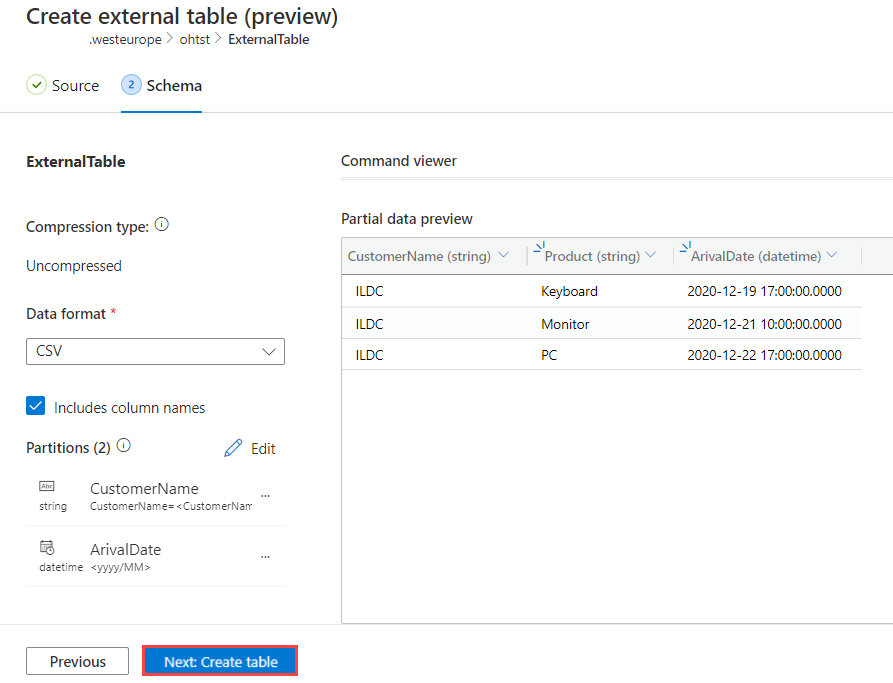
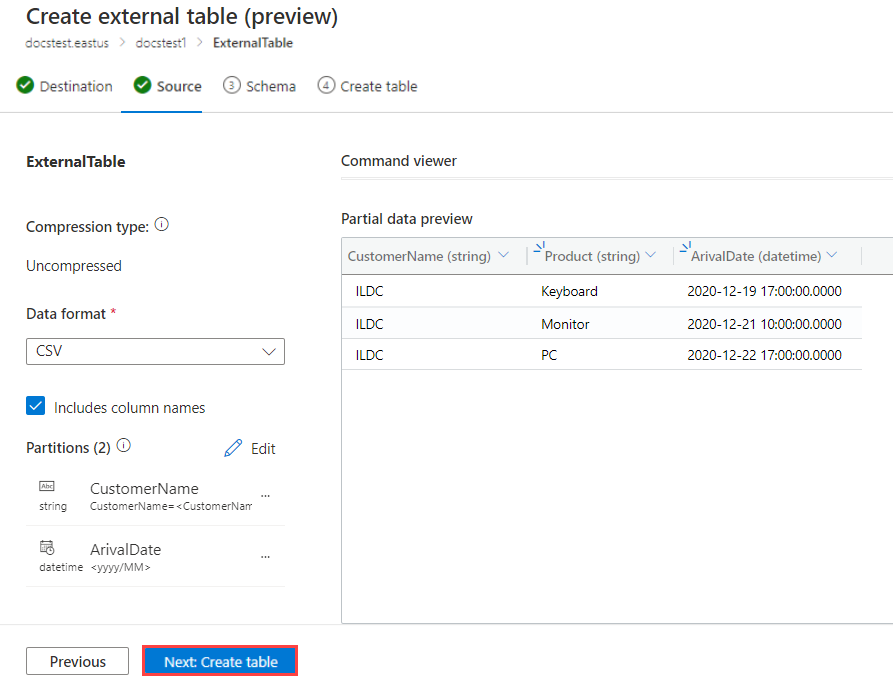
edits

Changed region(s): [[0.0, 0.0307, 0.3628, 0.1537], [0.3628, 0.0922, 0.4838, 0.1537]]

diff --git a/data-explorer/external-table.md b/data-explorer/external-table.md
@@ -25,7 +25,7 @@ This article shows you how to create an external table using the one-click exper
 
 There are two ways to access the creation wizard:
 
-* In the left blade of the Web UI, select **Data**. In the **Create external table** card, select **Create**.
+* In the left menu of the Web UI, select **Data**. In the **Create external table** card, select **Create**.
 
      :::image type="content" source="media/external-table/data-blade.png" alt-text="Screenshot of data blade in Azure Data Explorer Web UI with create external table highlighted. .":::
 
@@ -47,7 +47,7 @@ The **Create external table** window opens with the **Destination** tab selected
 
 ### Source tab
 
-1. In **Link to source**, enter the [SAS URL](/azure/vs-azure-tools-storage-explorer-blobs#get-the-sas-for-a-blob-container) of your source container. You can add up to 10 sources. 
+1. In **Link to source**, enter the [SAS URL](kusto/api/connection-strings/storage.md#generate-a-sas-for-azure-storage-blob-container) of your source container. You can add up to 10 sources. 
     The first source container will display files below the **File filters**. In a later step, you will use one of these files to generate the table schema.
 
     :::image type="content" source="media/external-table/source-tab.png" alt-text="Screen shot of create external table source tab in Azure Data Explorer.":::

diff --git a/data-explorer/one-click-ingestion-new-table.md b/data-explorer/one-click-ingestion-new-table.md
@@ -49,6 +49,8 @@ For information about ingesting data into an existing table in Azure Data Explor
 
     :::image type="content" source="media/one-click-ingestion-new-table/create-new-table.png" alt-text="Create a new table one-click ingestion.":::
 
+1. Select **Next: Source**
+
 ## Select an ingestion type
 
 Under **Source type**, do the following steps:
@@ -114,7 +116,7 @@ Select **Next: Schema** to view and edit your table column configuration.  By lo
 
 In the **Schema** tab:
 
-   1. Select **Data format**:
+   1. Confirm the format selected in **Data format**:
 
         In this case, the data format is **CSV**
 
@@ -138,11 +140,7 @@ When ingesting to a new table, alter various aspects of the table when creating 
 
 [!INCLUDE [data-explorer-one-click-command-editor](includes/data-explorer-one-click-command-editor.md)]
 
-## Start ingestion
-
 Select **Next: Summary** to create a table and mapping and to begin data ingestion.
-
-:::image type="content" source="media/one-click-ingestion-new-table/start-ingestion.png" alt-text="Start ingestion One Click Ingestion.":::
 
 ## Complete data ingestion
 
